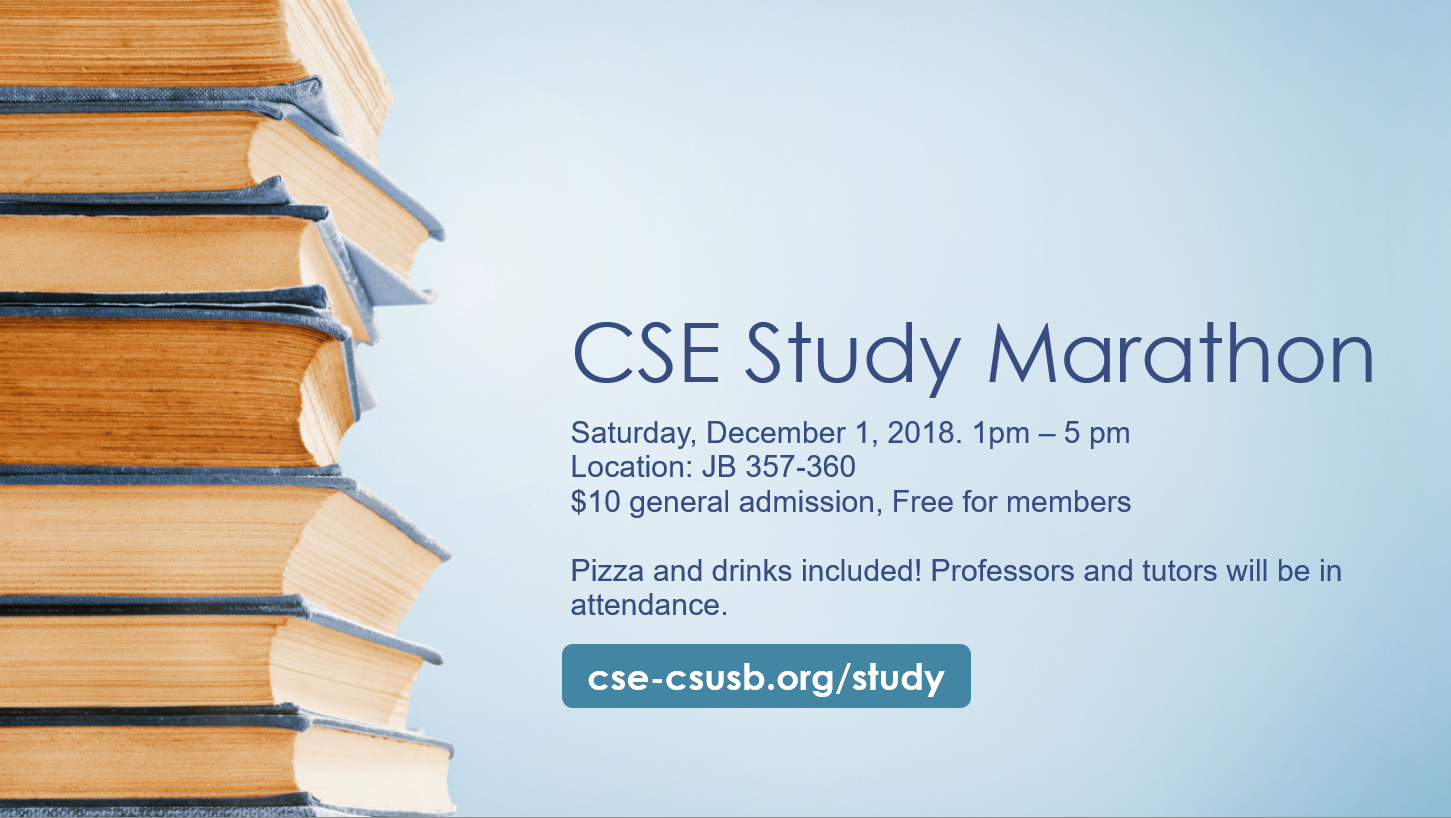
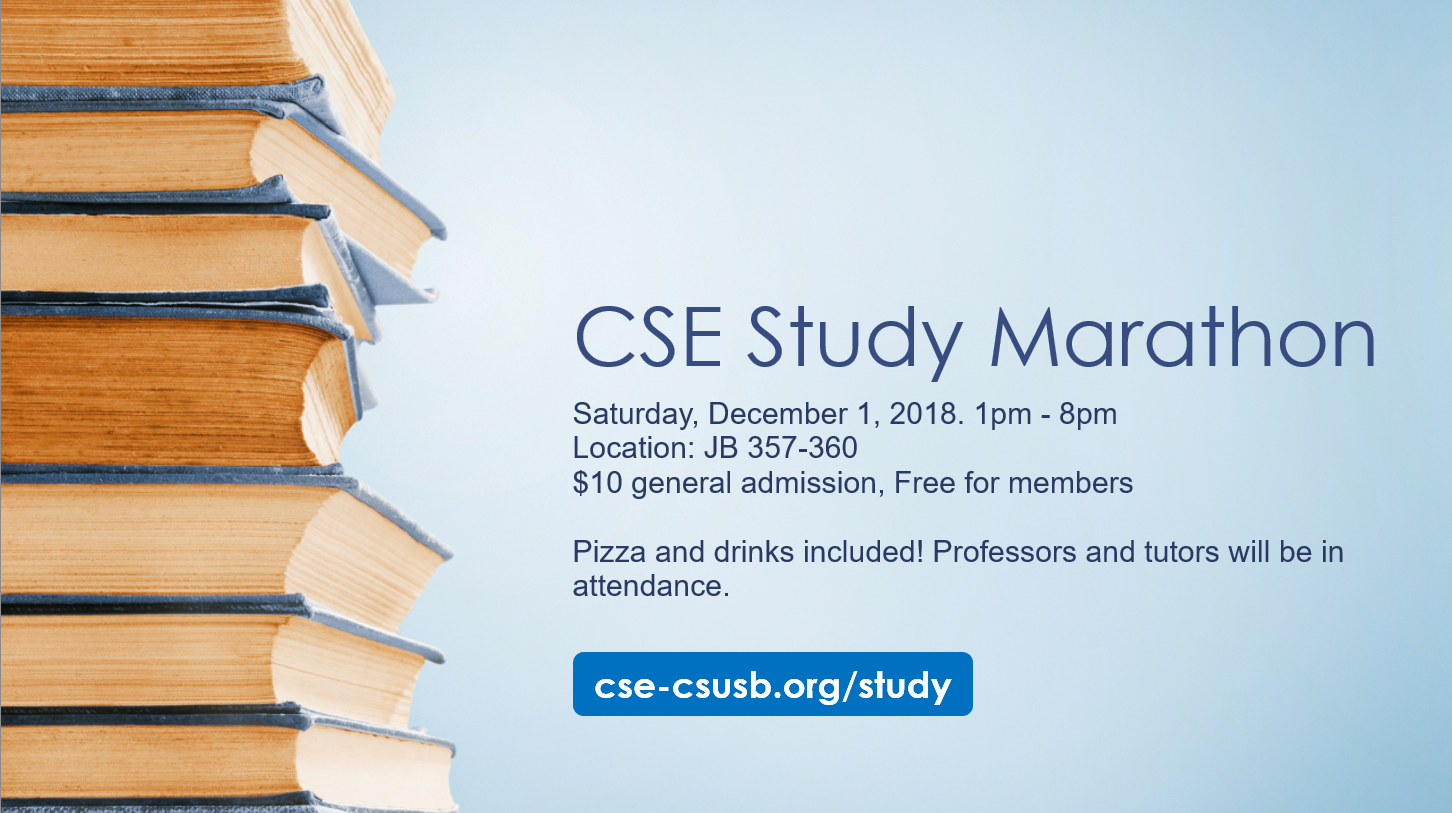
Fall 2018 Update 15
Study marathon

diff --git a/study/index.html b/study/index.html
@@ -193,7 +193,7 @@
 
 
         <br>
-        <h4> <b>Saturday, December 1st, 1pm - 5:00pm</b></h4>
+        <h4> <b>Saturday, December 1st, 1:00pm - 8:00pm</b></h4>
         <h4><b> Jack Brown Hall, Room JB 357-360</b></h4>
         <h4><b> Tickets prices: Free for members, 10$ non-members</b></h4>
         <!-- Portfolio Item Row -->
